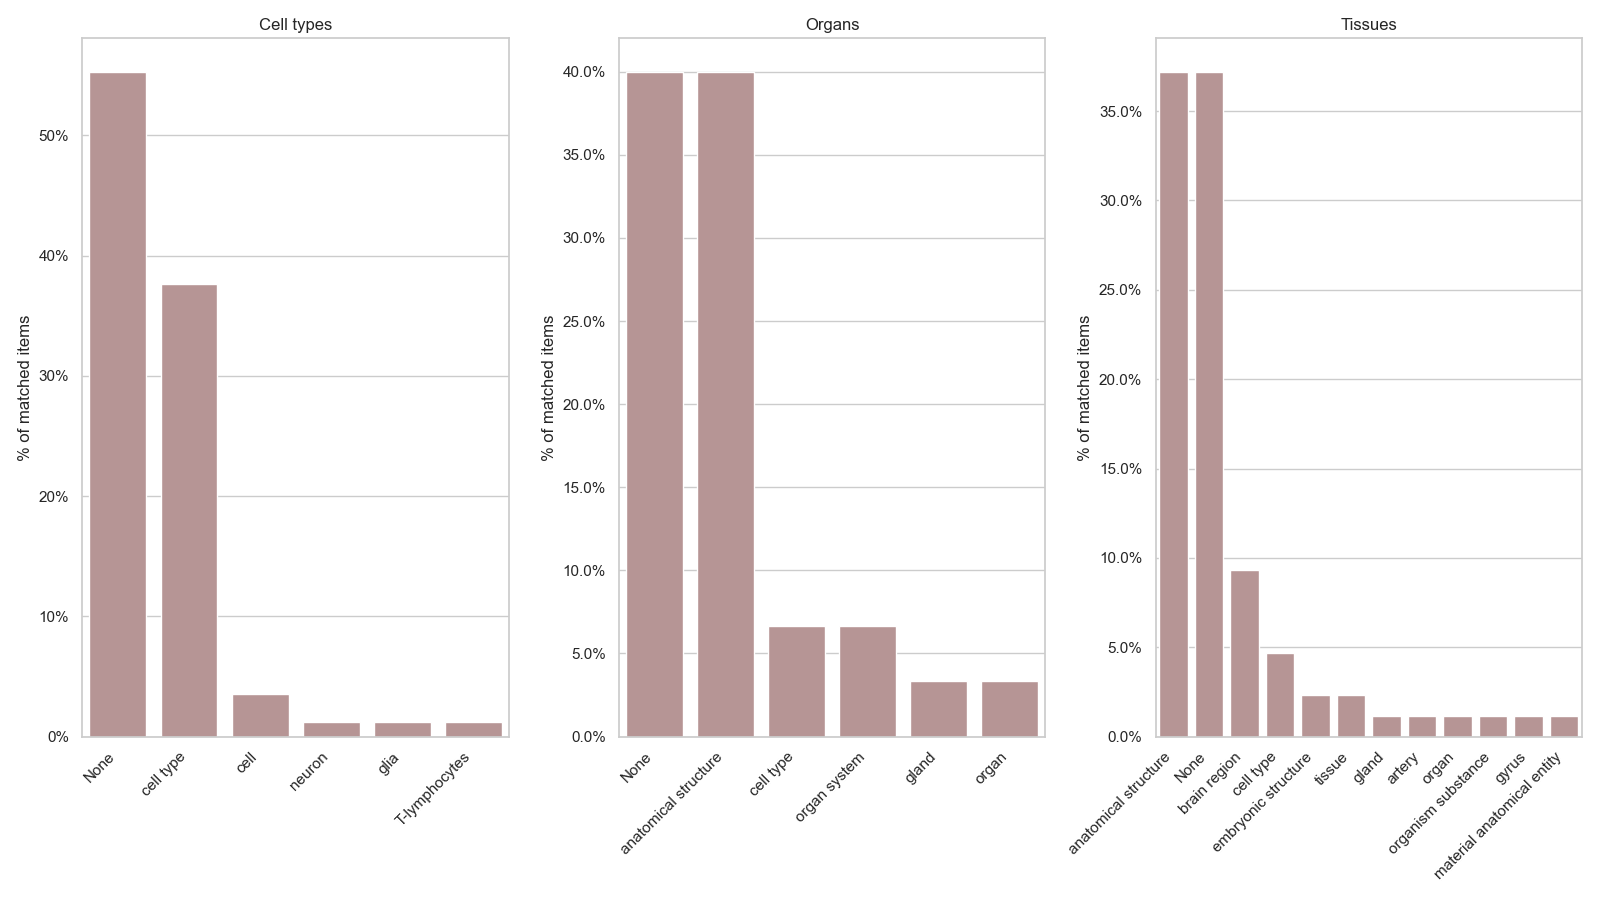
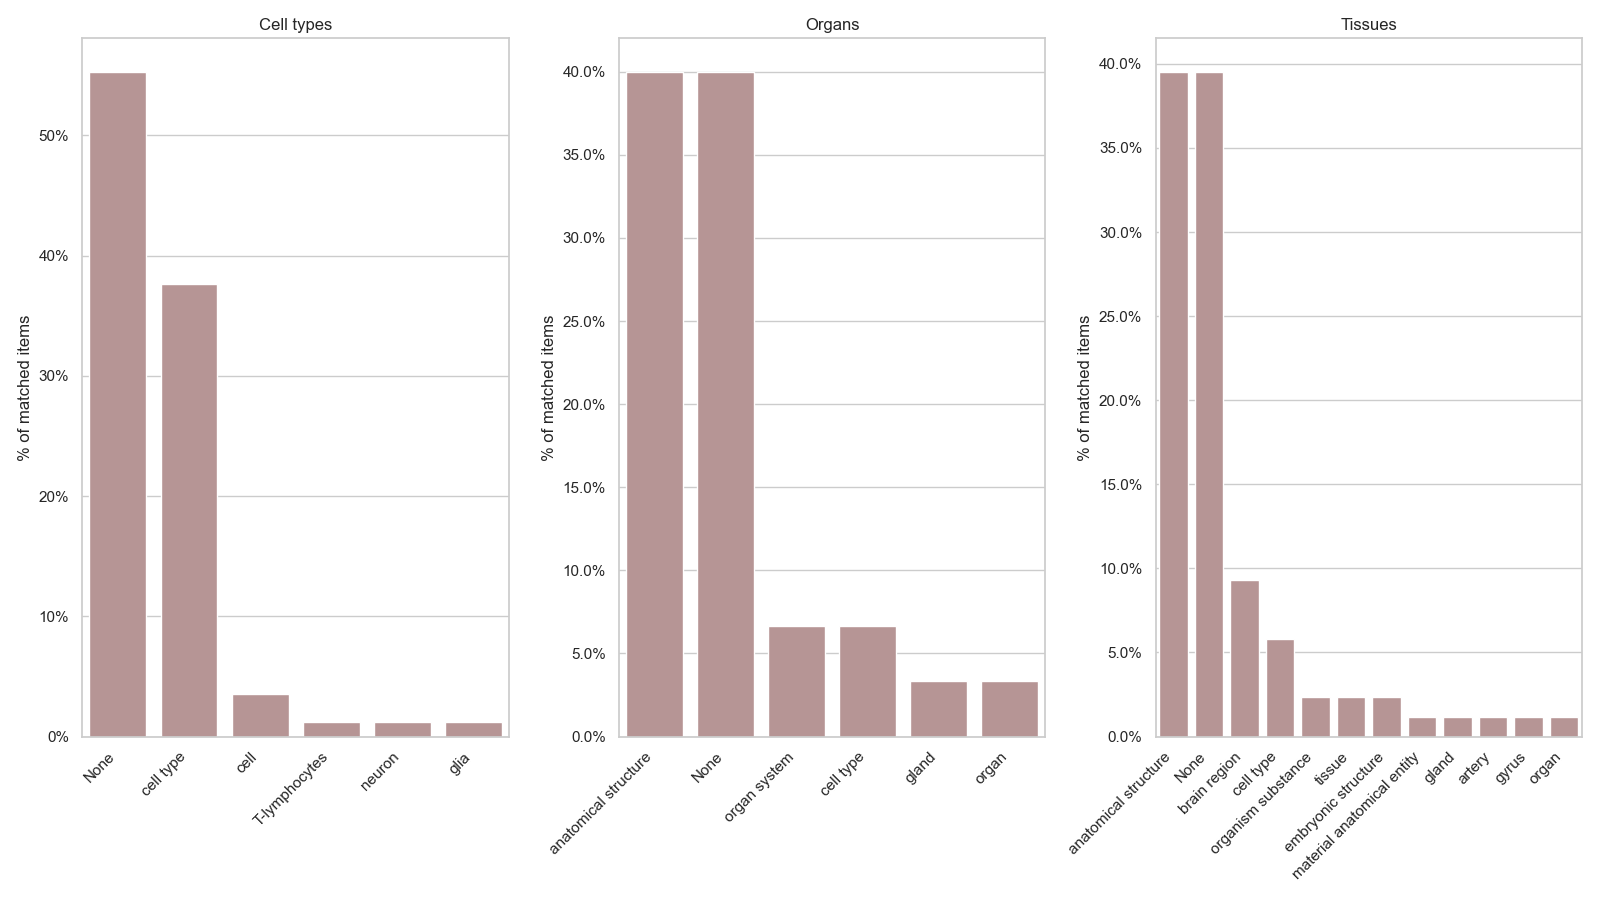
refactor: Remove id/input_value duplication
This is now done in remove_false_matches.py, instead of repeating the
same code in analyse_matches.py and item_quality.py. Hopefully it will
also make it simpler to migrate said data.

Updates the log_book and the draft to reflect the changes made.

diff --git a/analysis/remove_false_matches.py b/analysis/remove_false_matches.py
@@ -40,9 +40,15 @@ def main():
     tissues_raw = pd.read_csv("results/true_matches/tissues_raw.csv")
     organs_raw = pd.read_csv("results/true_matches/organs_raw.csv")
 
-    cells_clean = cells_raw[~cells_raw["id"].isin(false_matches)]
-    tissues_clean = tissues_raw[~tissues_raw["id"].isin(false_matches)]
-    organs_clean = organs_raw[~organs_raw["id"].isin(false_matches)]
+    cells_clean = cells_raw[~cells_raw["id"].isin(false_matches)].drop_duplicates(
+        subset=["id", "input_value"]
+    )
+    tissues_clean = tissues_raw[~tissues_raw["id"].isin(false_matches)].drop_duplicates(
+        subset=["id", "input_value"]
+    )
+    organs_clean = organs_raw[~organs_raw["id"].isin(false_matches)].drop_duplicates(
+        subset=["id", "input_value"]
+    )
 
     cells_clean.to_csv("results/true_matches/cells_checked.csv", index=False)
     tissues_clean.to_csv("results/true_matches/tissues_checked.csv", index=False)

diff --git a/analysis/analyse_matches.py b/analysis/analyse_matches.py
@@ -9,15 +9,9 @@ from wikidata_panglaodb.plotting import plot_matched_item_types
 
 
 def main():
-    cells = pd.read_csv("results/true_matches/cells_checked.csv").drop_duplicates(
-        subset=["id"]
-    )
-    organs = pd.read_csv("results/true_matches/organs_checked.csv").drop_duplicates(
-        subset=["id"]
-    )
-    tissues = pd.read_csv("results/true_matches/tissues_checked.csv").drop_duplicates(
-        subset=["id"]
-    )
+    cells = pd.read_csv("results/true_matches/cells_checked.csv")
+    organs = pd.read_csv("results/true_matches/organs_checked.csv")
+    tissues = pd.read_csv("results/true_matches/tissues_checked.csv")
     genes_panglaodb = pd.read_csv("data/panglaodb/genes.csv")
     mmu_genes = pd.read_csv("results/true_matches/mus_musculus_genes.csv").rename(
         columns={"itemLabel": "input_value", "item": "id"}

diff --git a/analysis/item_quality.py b/analysis/item_quality.py
@@ -15,15 +15,9 @@ sns.set(style="whitegrid", palette="muted")
 
 def main():
 
-    cells = pd.read_csv("results/true_matches/cells_checked.csv").drop_duplicates(
-        subset=["id"]
-    )
-    organs = pd.read_csv("results/true_matches/organs_checked.csv").drop_duplicates(
-        subset=["id"]
-    )
-    tissues = pd.read_csv("results/true_matches/tissues_checked.csv").drop_duplicates(
-        subset=["id"]
-    )
+    cells = pd.read_csv("results/true_matches/cells_checked.csv")
+    organs = pd.read_csv("results/true_matches/organs_checked.csv")
+    tissues = pd.read_csv("results/true_matches/tissues_checked.csv")
     mmu_genes = pd.read_csv("results/true_matches/mus_musculus_genes.csv")
     hsa_genes = pd.read_csv("results/true_matches/homo_sapiens_genes.csv")
 

diff --git a/manuscripts/drafts/matches.md b/manuscripts/drafts/matches.md
@@ -8,7 +8,7 @@ Depicted in Table 1 are also matches for gene data, which were acquired using ma
 |         |   # of unique matches  |   # of matched items |   % of total items that were matched |   % of matches that were perfect |   % of matches that don‘t have P31 | Totals |
 |:----------|-------------------:|-----------------:|---------------:|---------------------------:|------------------:|---------:|
 | Cells     |                 81 |               85 |        37.6744 |                    38.8235 |           55.2941 |      215 |
-| Tissues   |                 79 |               86 |        32.1138 |                    62.7907 |           37.2093 |      246 |
+| Tissues   |                 85 |               86 |        34.5528 |                    67.4418 |           39.5348 |      246 |
 | Organs    |                 22 |               30 |        75.8621 |                    60      |           40      |       29 |
 | Human Genes |              35423 |            35427 |        60.8475 |                   nan      |          nan      |    58216 |
 | Mouse Genes |              25124 |            25127 |        46.705  |                   nan      |          nan      |    53793 |

diff --git a/manuscripts/log_book.md b/manuscripts/log_book.md
@@ -145,3 +145,16 @@ What we did, tried, and accomplished during each day of the project.
 
 * Added a Makefile for reproducibility and automation, see
     [the Turing Way](https://the-turing-way.netlify.app/reproducible-research/make.html) for reference.
+
+### 15/10
+
+* Added GH actions to continuously update submodules and automatically build the documentation.
+
+### 16/10
+
+* Fixed issues with GH actions and added documentation badge to the README
+
+### 23/10
+
+* Refactored remove_false_matches.py to remove input_value/id duplication, 
+    simplifying the code in analyse_matches.py and item_quality.py.
